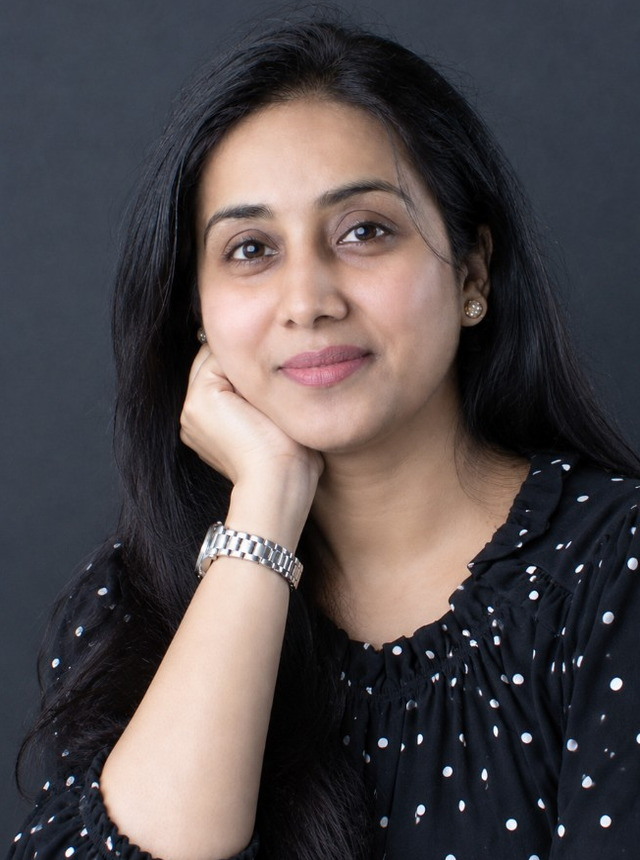
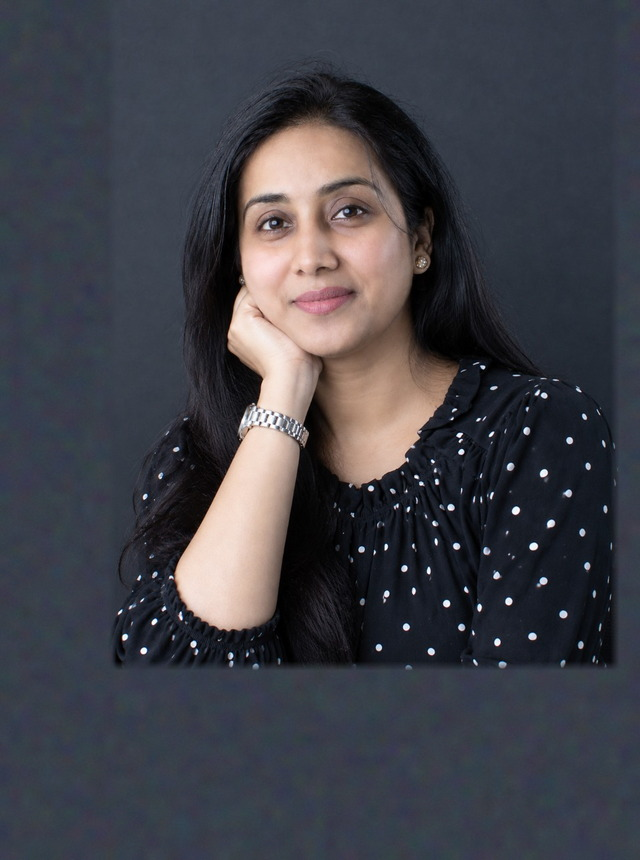
Zoom out Priya Nair DP to half-body Neha-scale (desk148).
Loosen framing via charcoal margin outpaint on a larger 3:4 canvas; bump JPEG ?v=2 and app.js cache to desk148.

diff --git a/js/app.js b/js/app.js
@@ -814,7 +814,7 @@ const MENTORS = [
   { name: "Ananya Rao", role: "Long-term investor", tag: "Portfolio", img: "/img/instructors/ananya-rao.jpg?v=2" },
   { name: "Kabir Joshi", role: "Index options", tag: "Bank Nifty", img: "/img/instructors/kabir-joshi.jpg?v=10" },
   { name: "Rohan Desai", role: "Fund researcher", tag: "Mutual funds", img: "/img/instructors/rohan-desai.jpg?v=13" },
-  { name: "Priya Nair", role: "Asset allocation", tag: "SIP lab", img: "/img/instructors/priya-nair.jpg?v=1" },
+  { name: "Priya Nair", role: "Asset allocation", tag: "SIP lab", img: "/img/instructors/priya-nair.jpg?v=2" },
   { name: "Meera Iyer", role: "Options coach", tag: "Defined risk", img: "/img/instructors/meera-iyer.jpg?v=1" }
 ];
 
@@ -4933,6 +4933,7 @@ function traderIcon(kind) {
 /* cache-bust desk145: Meera Iyer DP from user photo ref (site 640x860 + flutter 864x1152) /img/instructors/meera-iyer.jpg?v=1 */
 /* cache-bust desk146: Kabir Joshi DP from user photo ref (scrub sparkle; site 640x860 + flutter 864x1152) /img/instructors/kabir-joshi.jpg?v=10 */
 /* cache-bust desk147: Priya Nair DP from user photo ref (site 640x860 + flutter 864x1152) /img/instructors/priya-nair.jpg?v=1 */
+/* cache-bust desk148: Priya Nair DP zoom-out half-body Neha-scale (site 640x860 + flutter 864x1152) /img/instructors/priya-nair.jpg?v=2 */
 function traderCardHTML(m, i, opts = {}) {
   const title = String(m.role || m.tag || "Mentor").trim();
   const cloneAttrs = opts.clone ? ' tabindex="-1" aria-hidden="true"' : "";

diff --git a/account.html b/account.html
@@ -17,7 +17,7 @@
   <div id="site-header"></div>
   <main id="accountRoot" class="ld-page"></main>
   <div id="site-footer"></div>
-  <script src="/js/app.js?v=desk147" defer></script>
+  <script src="/js/app.js?v=desk148" defer></script>
   <script src="/js/lms.js?v=cert2" defer></script>
 </body>
 </html>

diff --git a/learning.html b/learning.html
@@ -17,7 +17,7 @@
   <div id="site-header"></div>
   <main id="myLearning" class="ld-page"></main>
   <div id="site-footer"></div>
-  <script src="/js/app.js?v=desk147" defer></script>
+  <script src="/js/app.js?v=desk148" defer></script>
   <script src="/js/lms.js?v=cert2" defer></script>
 </body>
 </html>

diff --git a/course.html b/course.html
@@ -22,7 +22,7 @@
     </div>
   </main>
   <div id="site-footer"></div>
-  <script src="/js/app.js?v=desk147" defer></script>
+  <script src="/js/app.js?v=desk148" defer></script>
   <script src="/js/lms.js?v=cert2" defer></script>
   <script src="/js/drm.js?v=desk29" defer></script>
 </body>

diff --git a/contact.html b/contact.html
@@ -48,7 +48,7 @@
   </main>
   <div id="site-footer"></div>
   <script src="/js/help-faqs.js?v=faq1" defer></script>
-  <script src="/js/app.js?v=desk147" defer></script>
+  <script src="/js/app.js?v=desk148" defer></script>
   <script src="/js/lms.js" defer></script>
 </body>
 </html>

diff --git a/certificate.html b/certificate.html
@@ -19,7 +19,7 @@
     <div id="certRoot"></div>
   </main>
   <div id="site-footer"></div>
-  <script src="/js/app.js?v=desk147" defer></script>
+  <script src="/js/app.js?v=desk148" defer></script>
   <script src="/js/lms.js?v=cert2" defer></script>
 </body>
 </html>

diff --git a/control.html b/control.html
@@ -253,7 +253,7 @@
         loading = true;
         busy(true);
         var files = [
-          "/js/app.js?v=desk147",
+          "/js/app.js?v=desk148",
           "/js/lms.js",
           "/js/admin-core.js?v=desk8",
           "/js/admin.js?v=drm5",

diff --git a/index.html b/index.html
@@ -415,7 +415,7 @@
     </section>
   </main>
   <div id="site-footer"></div>
-  <script src="/js/app.js?v=desk147" defer></script>
+  <script src="/js/app.js?v=desk148" defer></script>
   <script src="/js/lms.js?v=cert2" defer></script>
 </body>
 </html>

diff --git a/live-room.html b/live-room.html
@@ -22,7 +22,7 @@
 </head>
 <body class="live-room-page">
   <div id="liveRoom"></div>
-  <script src="/js/app.js?v=desk147" defer></script>
+  <script src="/js/app.js?v=desk148" defer></script>
   <script src="/js/lms.js" defer></script>
 </body>
 </html>

diff --git a/nifty-options.html b/nifty-options.html
@@ -44,7 +44,7 @@
     </section>
   </main>
   <div id="site-footer"></div>
-  <script src="/js/app.js?v=desk147" defer></script>
+  <script src="/js/app.js?v=desk148" defer></script>
   <script src="/js/lms.js?v=cert2" defer></script>
 </body>
 </html>

diff --git a/option-trading-course.html b/option-trading-course.html
@@ -44,7 +44,7 @@
     </section>
   </main>
   <div id="site-footer"></div>
-  <script src="/js/app.js?v=desk147" defer></script>
+  <script src="/js/app.js?v=desk148" defer></script>
   <script src="/js/lms.js?v=cert2" defer></script>
 </body>
 </html>

diff --git a/share-market-course-in-hindi.html b/share-market-course-in-hindi.html
@@ -42,7 +42,7 @@
     </section>
   </main>
   <div id="site-footer"></div>
-  <script src="/js/app.js?v=desk147" defer></script>
+  <script src="/js/app.js?v=desk148" defer></script>
   <script src="/js/lms.js?v=cert2" defer></script>
 </body>
 </html>
